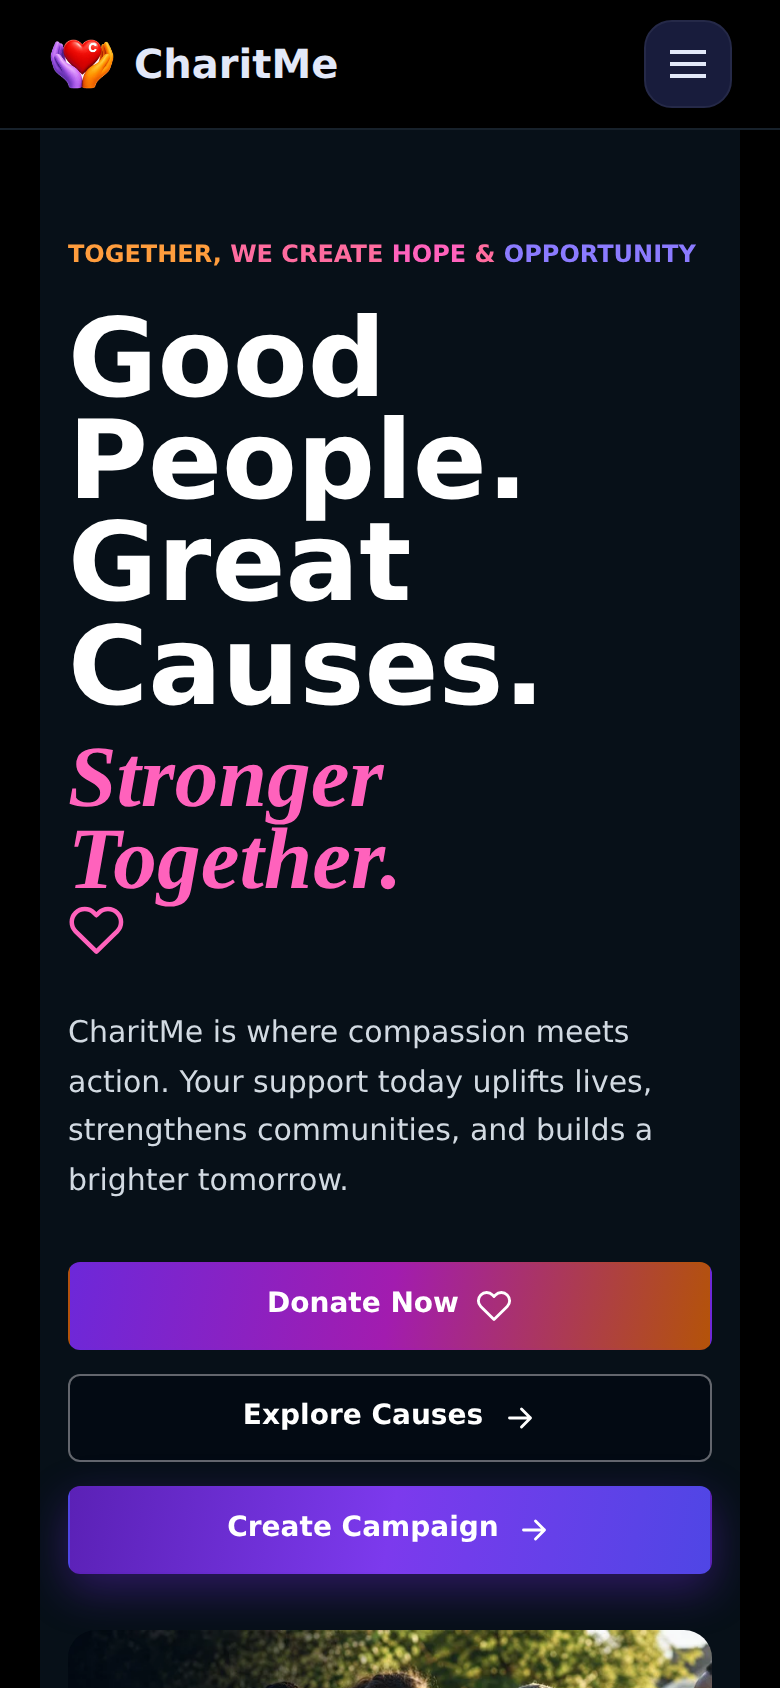
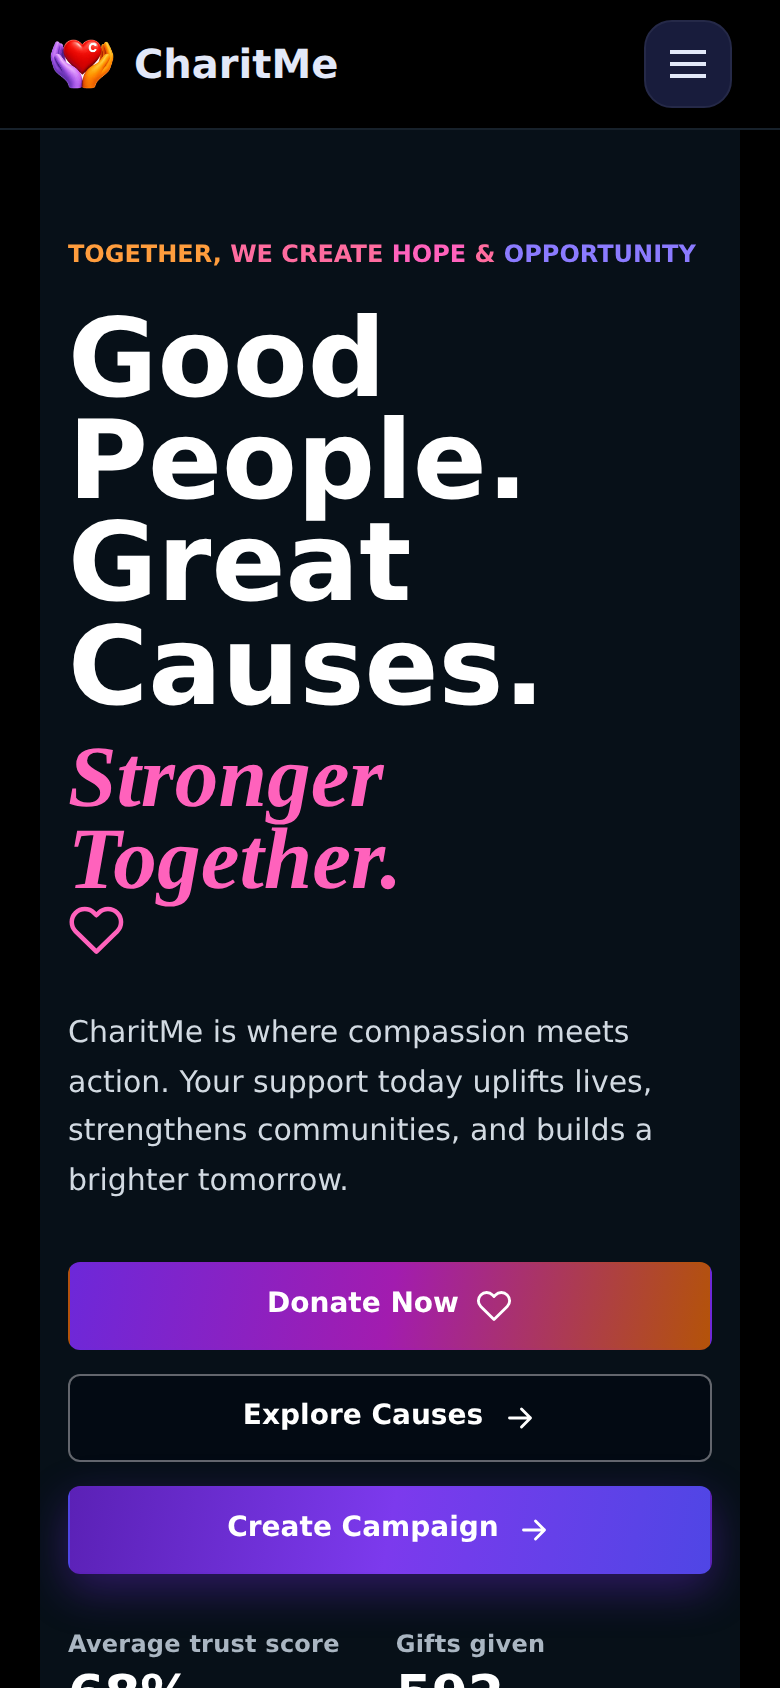
feat(store): 12 per-device listing screenshots at exact console sizes
`npm run capture:screenshots -- --store` captures 4 screens across 3 device
classes into public/store/screenshots/: iPhone 6.7" (1290x2796), iPhone 6.5"
(1242x2688) and Play phone (1080x1920).

⚠ Both consoles reject a size mismatch rather than scaling it, and the trap is
Playwright's units. The viewport is CSS pixels and deviceScaleFactor multiplies,
so passing 1290 with scale 3 produces a 3870px image — which looks perfectly
correct in a file listing and fails at upload. The script divides by the scale,
and __tests__/store-art.test.ts asserts the WRITTEN pixel dimensions rather than
the requested ones, because the requested ones are what was wrong.

Gated behind --store: 12 captures at up to 2796px tall would otherwise triple the
time of a routine manifest-screenshot refresh, for assets that change once per
release.

The em-dash refusal from the manifest captures applies here too — a store listing
screenshot showing a failed read is the worst possible place for one.

Verified: all 12 match their required size exactly, 4109 tests, typecheck and
lint clean.

Changed region(s): [[0.0923, 0.955, 0.9231, 1.0]]

diff --git a/apps/web/__tests__/store-art.test.ts b/apps/web/__tests__/store-art.test.ts
@@ -1,5 +1,5 @@
 import { describe, expect, it } from 'vitest';
-import { existsSync } from 'node:fs';
+import { existsSync, readdirSync } from 'node:fs';
 import path from 'node:path';
 import sharp from 'sharp';
 
@@ -48,6 +48,41 @@ describe('store listing art', () => {
       });
     });
   }
+
+  describe('per-device listing screenshots', () => {
+    const SHOTS = path.join(STORE, 'screenshots');
+    const DEVICES = [
+      { key: 'ios-6.7', width: 1290, height: 2796 },
+      { key: 'ios-6.5', width: 1242, height: 2688 },
+      { key: 'play-phone', width: 1080, height: 1920 },
+    ];
+
+    for (const device of DEVICES) {
+      it(`${device.key} images are exactly ${device.width}×${device.height}`, async () => {
+        // ⚠ Both consoles REJECT a size mismatch rather than scaling it, and the
+        // trap is Playwright's units: the viewport is CSS pixels and
+        // `deviceScaleFactor` multiplies. Passing 1290 with scale 3 yields a
+        // 3870px image that looks right in a file listing and fails on upload.
+        const files = readdirSync(SHOTS).filter((f) => f.startsWith(`${device.key}-`));
+        expect(files.length, `no ${device.key} screenshots found`).toBeGreaterThan(0);
+        for (const file of files) {
+          const meta = await sharp(path.join(SHOTS, file)).metadata();
+          expect({ file, w: meta.width, h: meta.height }).toEqual({
+            file,
+            w: device.width,
+            h: device.height,
+          });
+        }
+      });
+    }
+
+    it('covers at least two screens per device, which Play requires', () => {
+      for (const device of DEVICES) {
+        const files = readdirSync(SHOTS).filter((f) => f.startsWith(`${device.key}-`));
+        expect(files.length).toBeGreaterThanOrEqual(2);
+      }
+    });
+  });
 
   it('the in-app icons are deliberately NOT treated this way', async () => {
     // Guards against someone "fixing" the PWA icons to match. A manifest icon is

diff --git a/mobileGo.md b/mobileGo.md
@@ -37,6 +37,7 @@ with no claim is free. An item with a claim is someone else's — pick another.
 | Store listing art | claude/mobile | 2026-08-10 | ✅ done, released |
 | Native shells (TWA + Capacitor config) | claude/mobile | 2026-08-10 | ✅ config done, released |
 | Privacy declarations | claude/mobile | 2026-08-10 | ✅ done, released |
+| Per-device store screenshots | claude/mobile | 2026-08-10 | ✅ done, released |
 | Tombstone migration apply | — | | 🔒 blocked on credentials, not on people |
 
 ⚠ **Do not take "blocked on credentials" items.** They are not unclaimed work —
@@ -146,6 +147,26 @@ RGBA despite flattening. Fixed with a second pass.
 `__tests__/store-art.test.ts` re-checks size and alpha on every commit, and
 asserts the in-app icons are deliberately NOT treated this way — stripping their
 alpha would put a purple square on the home screen.
+
+### Per-device listing screenshots — 12, at exact console sizes
+`npm run capture:screenshots -- --store` captures 4 screens across 3 device
+classes into `public/store/screenshots/`:
+
+| Device | Size |
+|---|---|
+| iPhone 6.7" | 1290×2796 |
+| iPhone 6.5" | 1242×2688 |
+| Play phone | 1080×1920 |
+
+⚠ **Both consoles reject a size mismatch rather than scaling**, and the trap is
+Playwright's units: the viewport is CSS pixels and `deviceScaleFactor`
+multiplies. Passing `1290` with scale 3 yields a **3870px** image that looks
+correct in a file listing and fails on upload. The script divides by the scale;
+`__tests__/store-art.test.ts` asserts the written pixel dimensions, not the
+requested ones.
+
+The em-dash refusal applies here too — a listing screenshot showing a failed
+read is the worst place for one.
 
 ### Sign in with Apple — checked, already present
 Guideline 4.8 requires it wherever a third-party login is offered, and Google
@@ -286,11 +307,9 @@ Two findings worth keeping:
 
 **Still owner-side:** entering these answers in the two consoles.
 
-### Store listing art — per-device screenshots only
-The three generated assets are done (see Applied). What remains is **per-device
-screenshots** for each console's required display sizes, which the stores demand
-at specific resolutions (e.g. 6.7" and 5.5" iPhone). Those are captures, not
-generated art, and need the device frames the consoles specify.
+### Store listing art — ✅ complete
+Three generated assets plus **12 per-device listing screenshots**, all verified
+against the exact sizes each console demands. Nothing outstanding here.
 
 ---
 
